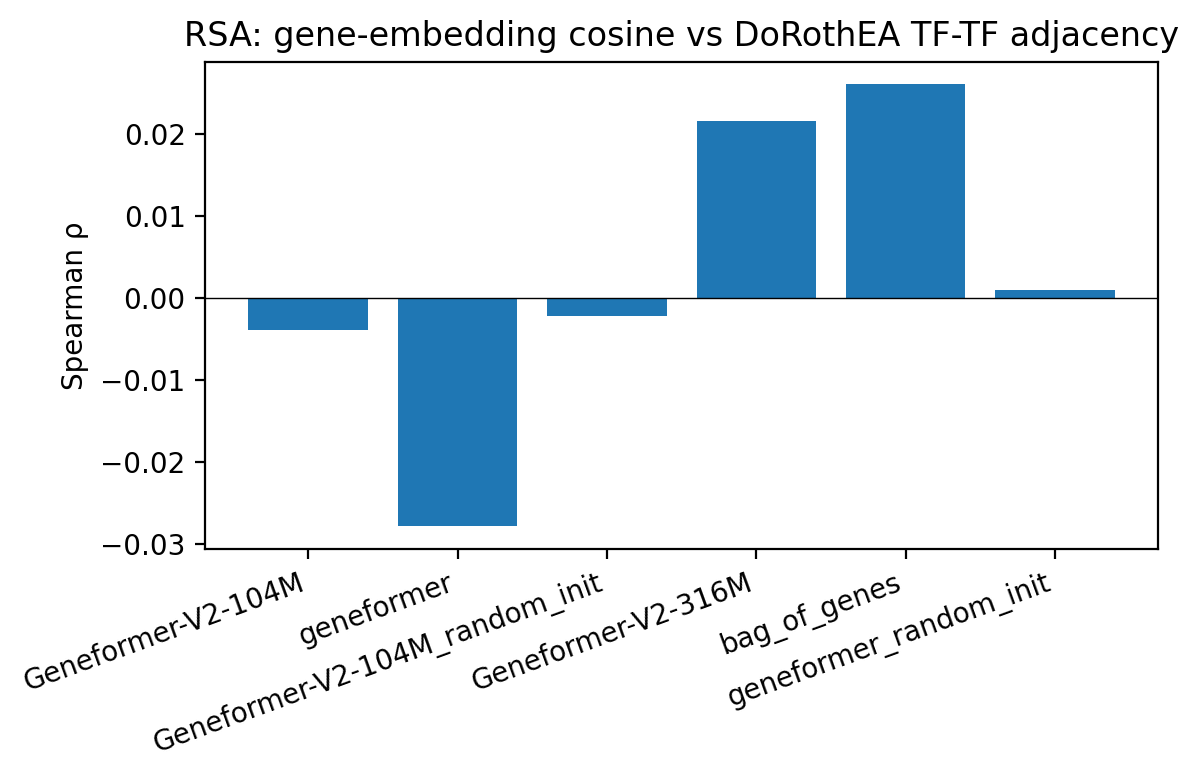
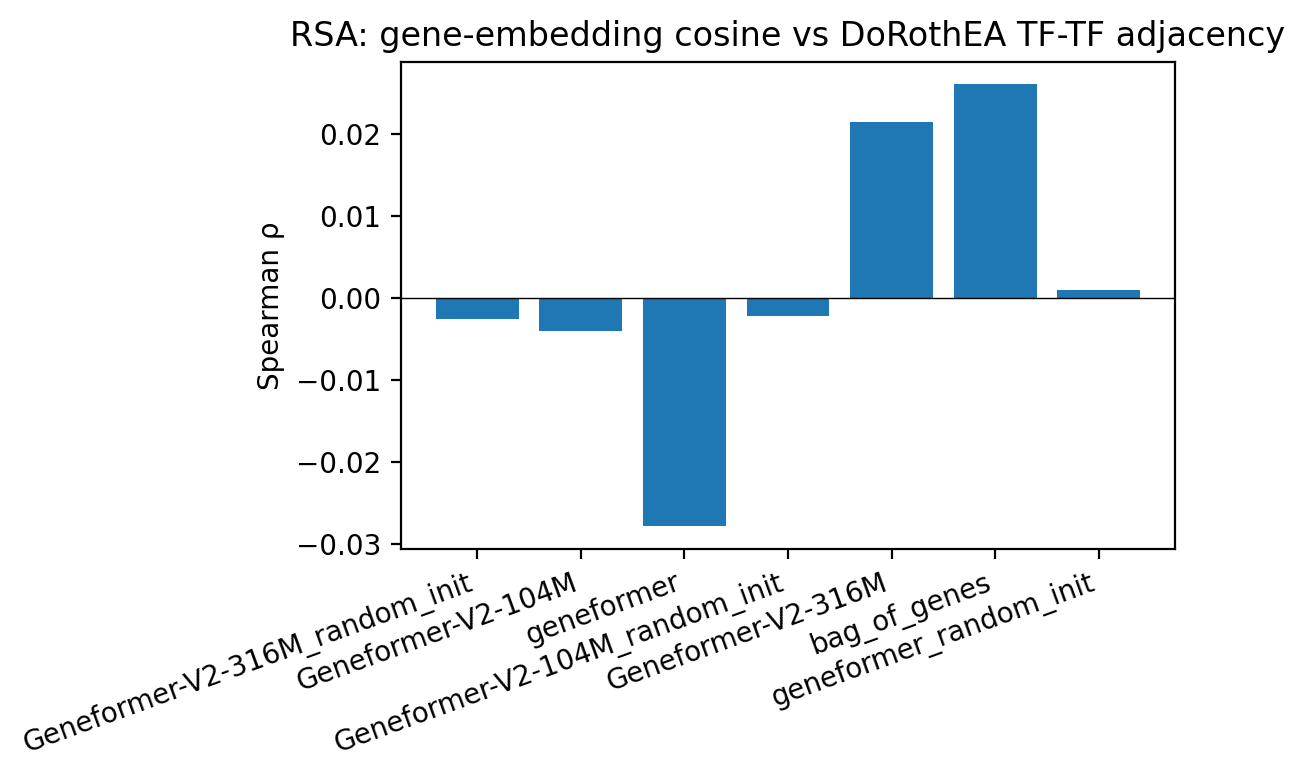
V2-316M random-init geometry control + per-layer V2-104M cell-type probe
V2-316M random_init extracted on AWS EC2 g5.xlarge (3h24m), all probes run
locally. Closes the geometry-falsifying control series at every embedding
dimension (256/768/1152) — at 1152d, trained Geneformer-V2-316M reaches
hub-AUC 0.70 vs random_init 0.44 (Δ=+0.26). Combined with V1-10M (+0.30)
and V2-104M (+0.18), the L3 hub-identity signal cannot be attributed to
geometric capacity at any tested embedding dimensionality.

Layer-wise V2-104M cell-type identity probe (morpheus/probes/layerwise.py):
extracted hidden states at all 13 layers (L0=token embedding, L1-L12=
transformer blocks) and ran the donor-stratified Layer-1 probe per layer.
Results (mean macro-F1):
  L0  0.39    L4  0.42    L8  0.42    L12 0.43 (used in paper)
  L1  0.41    L5  0.43    L9  0.43
  L2  0.41    L6  0.42    L10 0.42
  L3  0.42    L7  0.42    L11 0.42

All transformer layers cluster at 0.41-0.43; the final layer (used in main
results) ties for best. Bag-of-genes was 0.40. The 'L1 fails to exceed
bag-of-genes' finding is robust to layer choice — directly addresses
Civale et al. 2026 (intermediate layers can outperform for scFM trajectory
tasks); for our cell-type identity probe in V2-104M, no intermediate layer
substantially improves on the final-layer mean-pool baseline.

diff --git a/morpheus/probes/layerwise.py b/morpheus/probes/layerwise.py
@@ -1,0 +1,84 @@
+"""Layer-wise Layer-1 probe (cell-type identity) on a model with cells_layers.npy saved.
+
+For each transformer layer (including embedding layer 0), runs the standard donor-stratified
+5-fold logistic-regression probe on the mean-pooled hidden state at that layer, and reports
+macro-F1 per layer.
+
+Usage:
+  python -m morpheus.probes.layerwise --model Geneformer-V2-104M_layerwise
+"""
+from __future__ import annotations
+
+import argparse
+import json
+
+import anndata as ad
+import numpy as np
+import pandas as pd
+from sklearn.linear_model import LogisticRegression
+from sklearn.metrics import f1_score
+from sklearn.preprocessing import StandardScaler
+
+from morpheus.paths import CELLS_H5AD, EMBEDDINGS, RESULTS, SPLITS
+
+CELL_TYPE_MIN_CELLS = 200
+
+
+def main() -> None:
+    p = argparse.ArgumentParser()
+    p.add_argument("--model", required=True)
+    p.add_argument("--seed", type=int, default=0)
+    args = p.parse_args()
+
+    d = EMBEDDINGS / args.model
+    cell_idx = pd.read_parquet(d / "cell_index.parquet")
+    layers = np.load(d / "cells_layers.npy", mmap_mode="r")
+    n_cells, n_layers, embed_dim = layers.shape
+    print(f"loaded {args.model}/cells_layers.npy: {layers.shape}")
+
+    splits = pd.read_parquet(SPLITS).merge(cell_idx, on="cell_id")
+    adata = ad.read_h5ad(CELLS_H5AD, backed="r")
+    obs = adata.obs[["cell_id", "cell_type"]].copy()
+    obs["cell_id"] = obs["cell_id"].astype(str)
+    obs["cell_type"] = obs["cell_type"].astype(str)
+    df = splits.merge(obs, on="cell_id").sort_values("row").reset_index(drop=True)
+    counts = df["cell_type"].value_counts()
+    keep = counts[counts >= CELL_TYPE_MIN_CELLS].index
+    df = df[df["cell_type"].isin(keep)].reset_index(drop=True)
+    print(f"  kept {len(df):,} cells, {df['cell_type'].nunique()} cell types")
+
+    rows = []
+    for layer in range(n_layers):
+        for fold in sorted(df["fold"].unique()):
+            train = df[df["fold"] != fold]
+            test = df[df["fold"] == fold]
+            Xtr = layers[train["row"].to_numpy(), layer, :]
+            Xte = layers[test["row"].to_numpy(), layer, :]
+            scaler = StandardScaler(with_mean=False)
+            Xtr = scaler.fit_transform(Xtr)
+            Xte = scaler.transform(Xte)
+            clf = LogisticRegression(max_iter=1000, C=1.0, random_state=args.seed)
+            clf.fit(Xtr, train["cell_type"].values)
+            pred = clf.predict(Xte)
+            f1 = f1_score(test["cell_type"].values, pred, average="macro", zero_division=0)
+            rows.append({
+                "probe_name": "layer1_per_layer",
+                "model": args.model,
+                "layer": int(layer),
+                "fold": int(fold),
+                "metric": "macro_f1",
+                "value": float(f1),
+                "n_train": int(len(train)),
+                "n_test": int(len(test)),
+                "seed": args.seed,
+            })
+        layer_f1 = pd.DataFrame(rows)[lambda x: x["layer"] == layer]["value"]
+        print(f"  layer {layer:>2}: macro_f1 mean={layer_f1.mean():.4f} median={layer_f1.median():.4f}")
+
+    out = RESULTS / "probes" / f"layer1_per_layer__{args.model}.parquet"
+    pd.DataFrame(rows).to_parquet(out, index=False)
+    print(f"wrote → {out}")
+
+
+if __name__ == "__main__":
+    main()